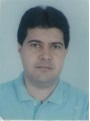
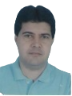
Ajustando código

diff --git a/css/estilo.css b/css/estilo.css
@@ -38,9 +38,10 @@ header .fundo h2 {
     border-radius: 5px;
 }
 header .fundo img {
-    margin-right: 5px;
-    margin-top: -185px;
-    float: right;
+    background-color: rgba(31, 32, 32, 0.436);
+    margin: 5px;
+    margin-left: 5px;
+    float: left;
 }
 main .normal {
     font-family: Arial, Helvetica, sans-serif;
@@ -72,4 +73,12 @@ footer {
     color: white;
     text-align: center;
     padding: 50px;
+}
+@media screen and (max-width: 920px) {
+    main .imagem p {
+        font-size: 1em;
+    }
+    main .normal {
+        font-size: 1em;
+    }
 }

diff --git a/index.html b/index.html
@@ -13,10 +13,11 @@
         <div class="fundo">
             <h1>Poema</h1>
             <h2>Por: José Henrique Antônio</h2>
-            <img src="imagens/autor.jpg" alt="José Henrique Antônio">
         </div>
     </header>
     <main>
+        
+        <img src="imagens/autor.jpg" alt="José Henrique Antônio">
         <section class="normal">
             <p>A saracura três potes é uma ave bem discreta que canta ao amanhecer e de tardezinha;
                 Ela vive às margens dos riachos e no brejo, onde é considerada a rainha!
